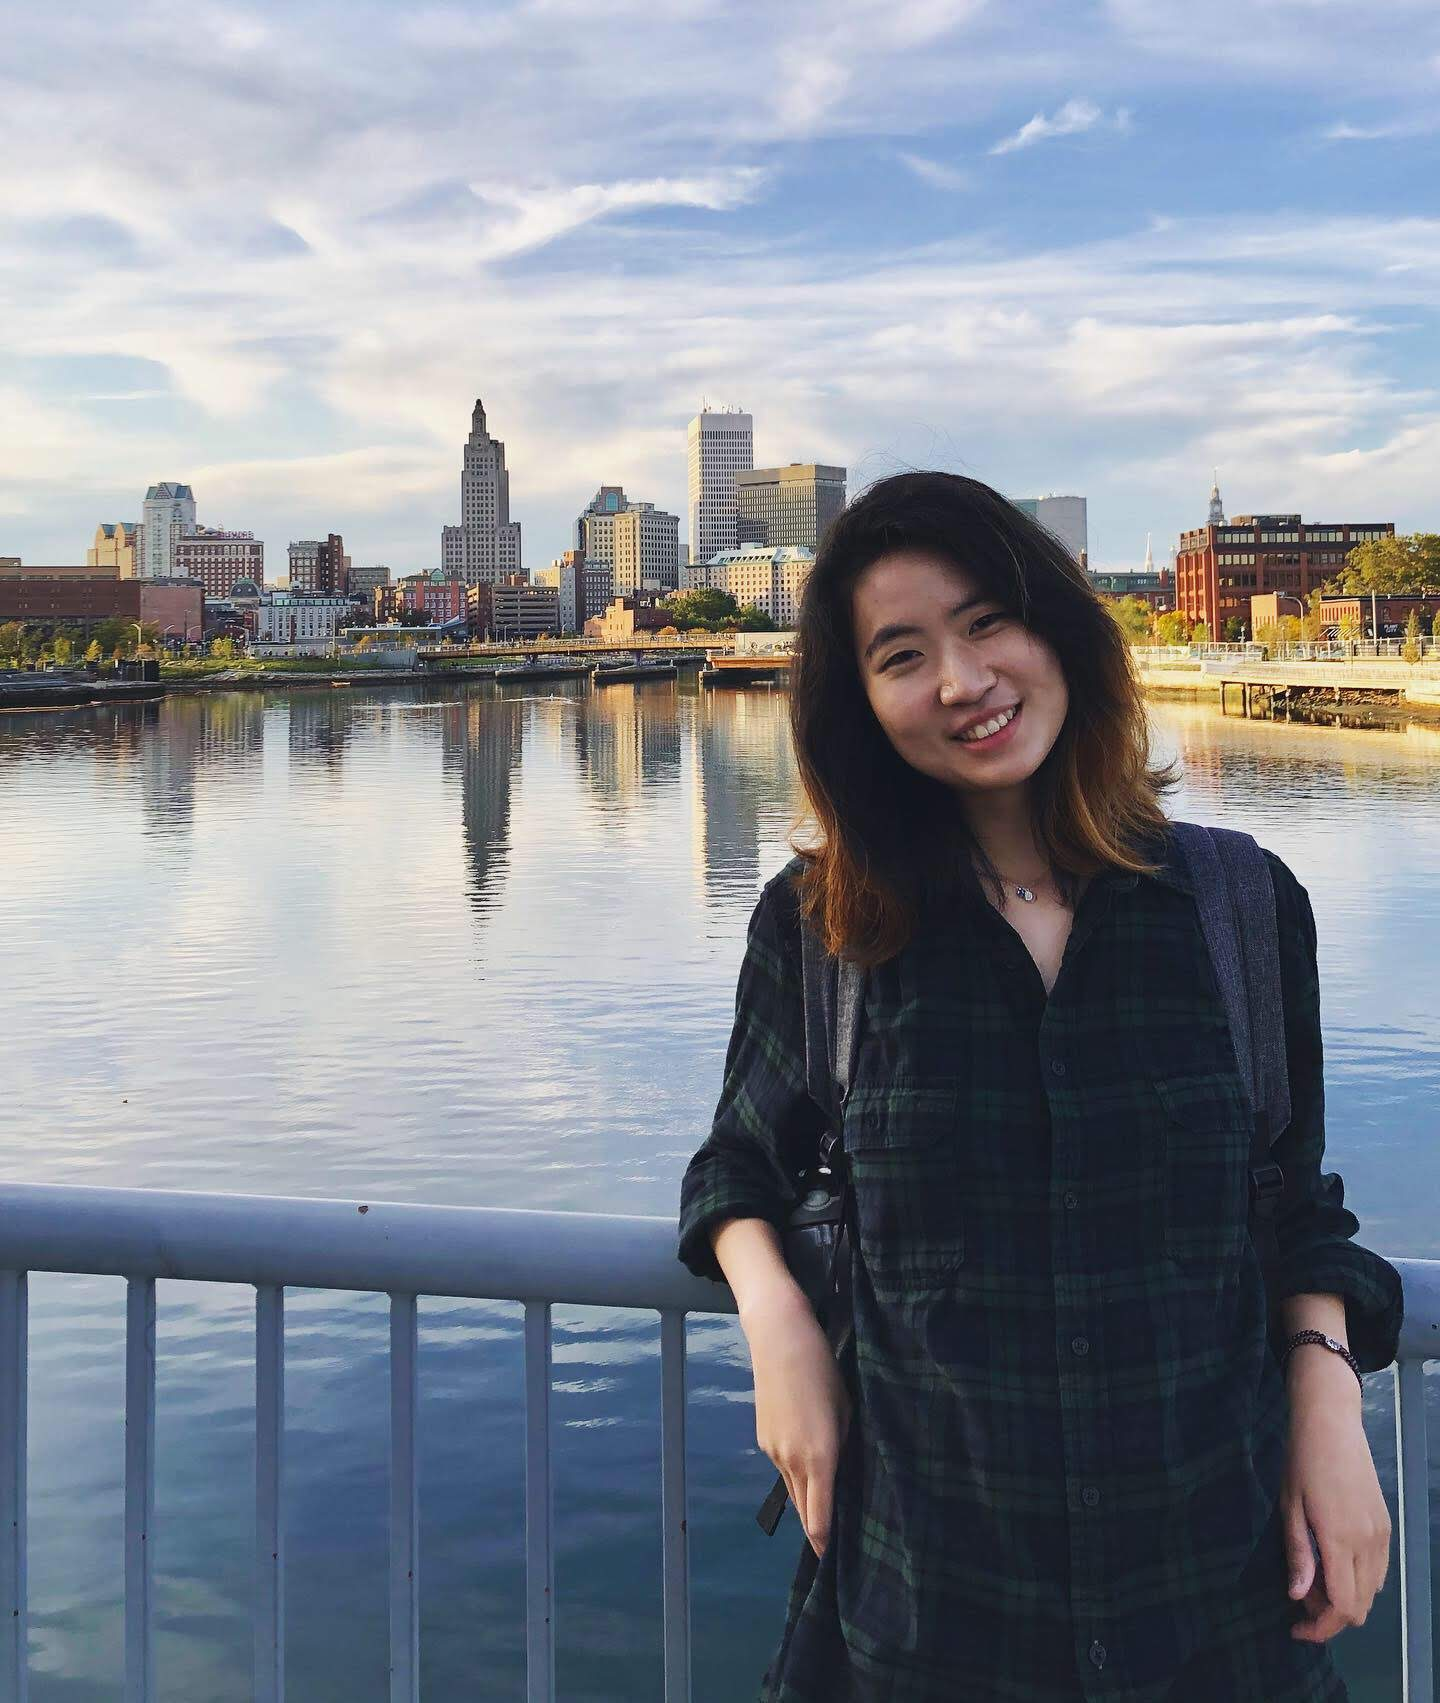
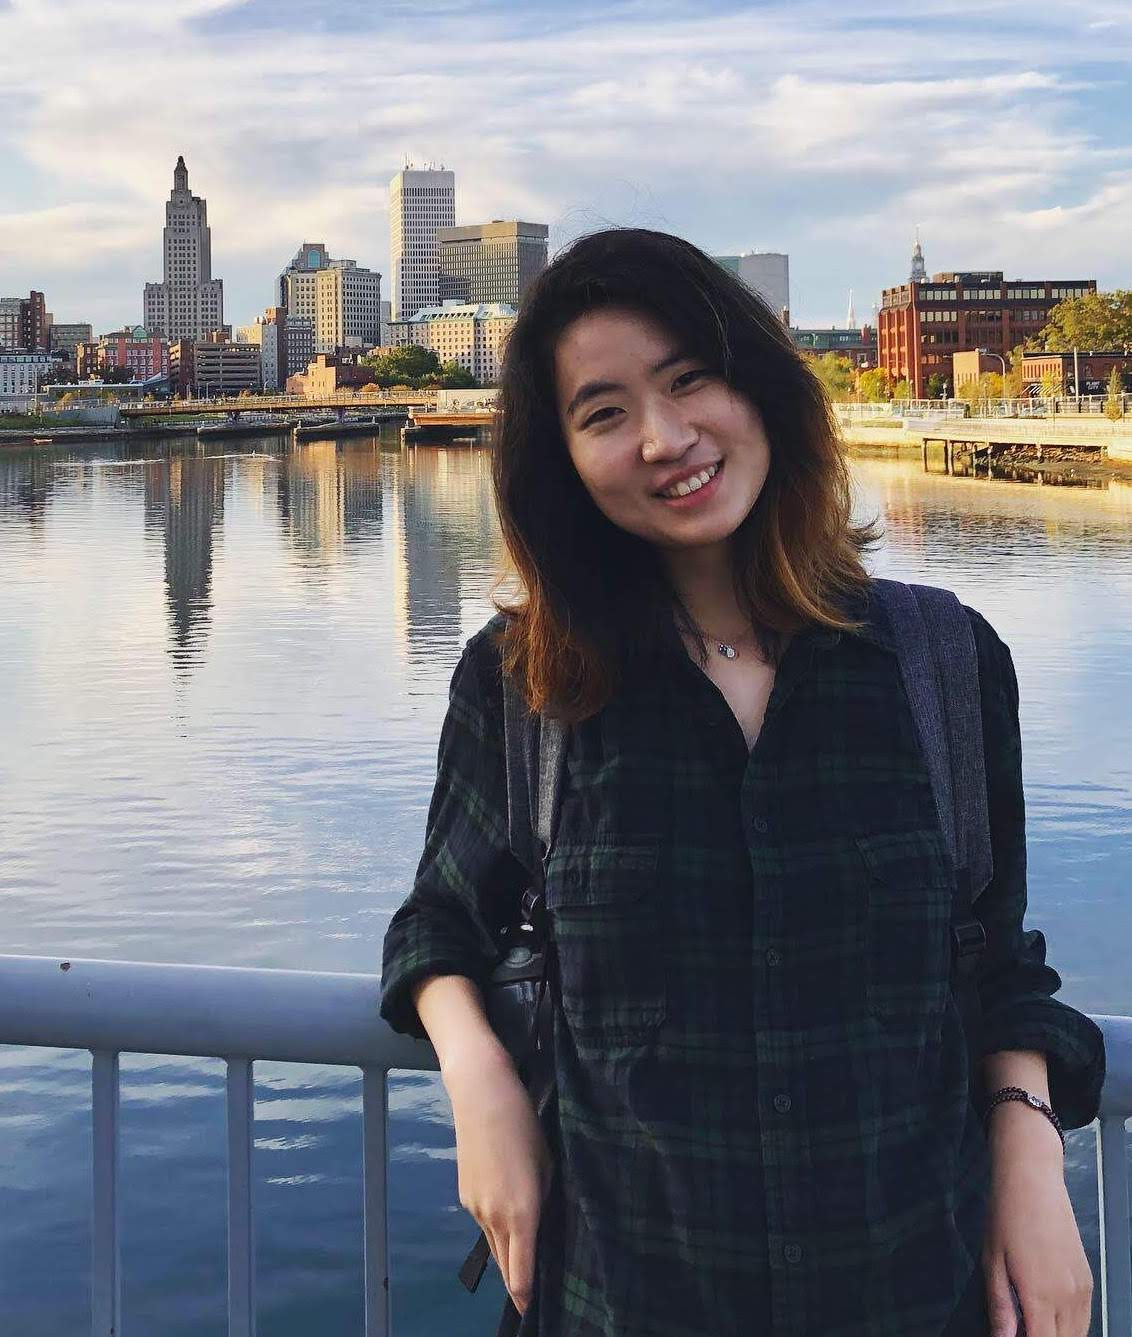
fix styling

diff --git a/src/components/projects.js b/src/components/projects.js
@@ -1,7 +1,7 @@
 import React from "react"
 
 const Projects = () => (
-  <div id="project">
+  <div class="col-12">
     {" "}
     <h2 style={{ fontSize: "30px", fontWeight: "bold" }}># Projects</h2>
     <div>
@@ -20,65 +20,66 @@ const Projects = () => (
           </a>
         </div>
       </div>
-      <p>
-        {" "}
-        ::::::::::::::::::::::::::::::::::::::::::::::::::::::::::::::::::::::::::::::::::::::::::::::::::::::::::::::::::::::::::::::::{" "}
-      </p>
-      <p>
-        01/2020 - Present | <a id="techstack">#VueJS</a>
-        <a id="techstack">#NodeJS</a>
-        <a id="techstack">#Firebase Database</a>
-        <a id="techstack">#GoogleMap API</a>
-        <a id="techstack">#HTML/CSS</a>
-      </p>
-      <p id="toGrey">
-        <a href="https://inrainbows-171a7.web.app/" id="redirect">
-          InRainbows
-        </a>{" "}
-        is a web application for high school and college-age LGBTQ+ members in
-        Boston to easily access queer-friendly mental health resources based on
-        preferences that matter to them.{" "}
-      </p>
-      <p id="toGrey">
-        I first pitched the project idea to <a id="toBold">BU Spark! </a>
-        and then got accepted and funded by{" "}
-        <a
-          href="https://www.bu.edu/spark/students/spark-programs/"
-          id="redirect"
-        >
-          BU Spark! Innovation Fellowship Program
-        </a>
-        .{" "}
-      </p>
-      <p id="toGrey">
-        As the <a id="toBold">founder</a> and the{" "}
-        <a id="toBold">lead developer</a>, I lead a team of 3 software engineer
-        and 1 UX designer to ensure the development of website features using{" "}
-        <a id="toBold">Agile</a> methodology, programmed both front-end and
-        back-end.{" "}
-      </p>
+      <div class="col-12">
+        <p> ::::::::::::::::::::::::::::::::: </p>
+        <p>
+          01/2020 - Present | <b id="techstack">#VueJS</b>
+          <b id="techstack">#NodeJS</b>
+          <b id="techstack">#Firebase Database</b>
+          <b id="techstack">#GoogleMap API</b>
+          <b id="techstack">#HTML/CSS</b>
+        </p>
+        <p class="toGrey">
+          <a href="https://inrainbows-171a7.web.app/" id="redirect">
+            InRainbows
+          </a>{" "}
+          is a web application for high school and college-age LGBTQ+ members in
+          Boston to easily access queer-friendly mental health resources based
+          on preferences that matter to them.{" "}
+        </p>
+        <p class="toGrey">
+          I first pitched the project idea to <b>BU Spark! </b>
+          and then got accepted and funded by{" "}
+          <a
+            href="https://www.bu.edu/spark/students/spark-programs/"
+            id="redirect"
+          >
+            BU Spark! Innovation Fellowship Program
+          </a>
+          .{" "}
+        </p>
+        <p class="toGrey">
+          As the <b>founder</b> and the <b>lead developer</b>, I lead a team of
+          3 software engineer and 1 UX designer to ensure the development of
+          website features using <b>Agile</b> methodology, programmed both
+          front-end and back-end.{" "}
+        </p>
+      </div>
     </div>
     <br></br>
     <div>
       <p id="projectTitle"> > Personalized Concert Generator</p>
-      <p>
-        {" "}
-        :::::::::::::::::::::::::::::::::::::::::::::::::::::::::::::::::::::::::::::::::::::::::::::::::::::::::{" "}
-      </p>
+      <p> ::::::::::::::::::::::::::::::::: </p>
     </div>
     <br></br>
     <div>
-      <p id="projectTitle"> > InhalED</p>
+      <div class="row">
+        <div class="col-10">
+          <p id="projectTitle"> > InhalED</p>
+        </div>
+        <div class="col-2">
+          <a id="redirect" href="https://github.com/Yunhan0816/inhale-ed">
+            Github
+          </a>
+        </div>
+      </div>{" "}
+      <p> ::::::::::::::::::::::::::::::::: </p>
       <p>
-        {" "}
-        :::::::::::::::::::::::::::::::::::::::::::::::::::::::::::::::::::::::::::::::::::::::::::::::::::::::::{" "}
+        10/2019 | <b id="techstack">#VueJS</b>
+        <b id="techstack">#NodeJS</b>
+        <b id="techstack">#Firebase Database</b>
       </p>
-      <p>
-        10/2019 | <a id="techstack">#VueJS</a>
-        <a id="techstack">#NodeJS</a>
-        <a id="techstack">#Firebase Database</a>
-      </p>
-      <p id="toGrey">
+      <p class="toGrey">
         <a id="redirect" href="https://inhaled-bh19.firebaseapp.com/">
           InhalED
         </a>{" "}
@@ -87,19 +88,18 @@ const Projects = () => (
         physical condition, which further helps with patient-doctor
         communication and create the most effective regime.{" "}
       </p>
-      <p id="toGrey">Built by me and other 2 teammates at BostonHacks 2019. </p>
-      <p id="toGrey">
-        First Place Winner of Best Use of Google Cloud and Environmental
-        Sustainability Challenge at BostonHacks 2019.
+      <p class="toGrey">
+        Built by me and other 2 teammates at <b>BostonHacks 2019.</b>{" "}
+      </p>
+      <p class="toGrey">
+        First Place Winner of <b>Best Use of Google Cloud</b> and
+        <b> Environmental Sustainability Challenge</b> at BostonHacks 2019.
       </p>
     </div>
     <br></br>
     <div>
       <p id="projectTitle">Help At Hand</p>
-      <p>
-        {" "}
-        :::::::::::::::::::::::::::::::::::::::::::::::::::::::::::::::::::::::::::::::::::::::::::::::::::::::::{" "}
-      </p>
+      <p> ::::::::::::::::::::::::::::::::: </p>
     </div>
     <br></br>
   </div>

diff --git a/src/components/aboutme.js b/src/components/aboutme.js
@@ -1,37 +1,28 @@
 import React from "react"
-
 const AboutMe = () => (
-  <div id="aboutMe">
-    <h1 style={{ fontSize: "30px", fontWeight: "bold" }}># About Me</h1>
-    <p id="toGrey">
+  <div>
+    <h1 style={{ fontSize: "30px", fontWeight: "bold" }}># About Me</h1>{" "}
+    <p class="toGrey">
       Hello! I'm Hannah, a 4th year Computer Science student studying at Boston
-      University (graduating May 2021).{" "}
-    </p>
-    <p id="toGrey">
+      University (graduating May 2021). <br></br>
+      <br></br>
       My passions include Software Development, organizing hackathons, and indie
-      rock.{" "}
-    </p>
-    <p id="toGrey">
-      I am a <a id="toBold">Developer Summer Analyst</a> at{" "}
-      <a style={{ color: "#81c5fd", fontWeight: "bold" }}>Barclays</a>.
-    </p>
-    <p id="toGrey">
-      I am the current <a id="toBold">Director of Technology</a> at{" "}
+      rock. <br></br>
+      <br></br>I am a <b>Developer Summer Analyst </b>
+      at<b style={{ color: "#81c5fd" }}> Barclays</b>.<br></br>
+      <br></br>I am the current <b>Director of Technology</b> at{" "}
       <a id="redirect" href="https://boston.techtogether.io/index.html">
         TechTogether Boston
       </a>
       , Boston's largest female, femme, and non-binary hackathon that empowers
-      women and non-binary individuals in technology to achieve.{" "}
-    </p>
-    <p id="toGrey">
-      I am also a <a id="toBold">Tech Organizer</a> at{" "}
+      women and non-binary individuals in technology to achieve. <br></br>
+      <br></br>I am also a <b>Tech Organizer</b> at{" "}
       <a id="redirect" href="https://www.bostonhacks.io/">
         BostonHacks
       </a>
       , an annual collegiate hackathon at Boston University.
-    </p>
-    <p id="toGrey">
-      I am a former <a id="toBold">Back-end lead developer</a> at{" "}
+      <br></br>
+      <br></br>I am a former <b>Back-end lead developer</b> at{" "}
       <a id="redirect" href="https://hack4impact.org/">
         Hack4Impact
       </a>

diff --git a/src/components/navbar.js b/src/components/navbar.js
@@ -4,20 +4,22 @@ import DynamicLink from "./dynamic-link"
 import NavLinks from "../data/nav-links.json"
 
 const Nav = () => (
-  <nav className="nav">
-    <DynamicLink to="/" className="nav__logo"></DynamicLink>
-    <ul className="nav__list">
-      {NavLinks.map((link, index) => {
-        return (
-          <li key={`nav-item-${index}`} className="nav__item">
-            <DynamicLink className="nav__link" to={link.path}>
-              {link.name}
-            </DynamicLink>
-          </li>
-        )
-      })}
-    </ul>
-  </nav>
+  <div class="col-12">
+    <nav className="nav">
+      <DynamicLink to="/" className="nav__logo"></DynamicLink>
+      <ul className="nav__list">
+        {NavLinks.map((link, index) => {
+          return (
+            <li key={`nav-item-${index}`} className="nav__item">
+              <DynamicLink className="nav__link" to={link.path}>
+                {link.name}
+              </DynamicLink>
+            </li>
+          )
+        })}
+      </ul>
+    </nav>
+  </div>
 )
 
 export default Nav

diff --git a/gatsby-config.js b/gatsby-config.js
@@ -1,8 +1,8 @@
 module.exports = {
   siteMetadata: {
-    title: `Gatsby Default Starter`,
-    description: `Kick off your next, great Gatsby project with this default starter. This barebones starter ships with the main Gatsby configuration files you might need.`,
-    author: `@gatsbyjs`,
+    title: `Portfolio`,
+    description: `Hannah Huang is a 4th year Computer Science student at Boston University with a passion for Software Development.`,
+    author: `Hannah Huang`,
   },
   plugins: [
     `gatsby-plugin-react-helmet`,
@@ -24,7 +24,7 @@ module.exports = {
         background_color: `#663399`,
         theme_color: `#663399`,
         display: `minimal-ui`,
-        icon: `src/images/gatsby-icon.png`, // This path is relative to the root of the site.
+        icon: `src/images/Hannah.png`, // This path is relative to the root of the site.
       },
     },
     // this (optional) plugin enables Progressive Web App + Offline functionality

diff --git a/src/styles/layout.css b/src/styles/layout.css
@@ -1,4 +1,5 @@
 @import url("https://fonts.googleapis.com/css2?family=Overpass&family=Overpass+Mono:wght@400;700&display=swap");
+
 * {
   font-family: "Overpass Mono", sans-serif;
   background-color: #222028;
@@ -11,6 +12,7 @@
 }
 #projectTitle {
   font-size: 20px;
+  font-weight: bold;
   color: white;
 }
 h3 {
@@ -18,7 +20,7 @@ h3 {
   color: white;
   font-size: 20px;
 }
-#toGrey {
+.toGrey {
   color: #a2a3a2;
 }
 
@@ -92,13 +94,15 @@ a {
   text-decoration: none;
 }
 
-#toBold {
+.toBold {
   font-weight: bold;
   color: #d4feda;
 }
 #techstack {
+  font-weight: lighter;
   /* color: #919993; */
   margin-right: 30px;
+  color: white;
 }
 .navHref {
   color: #81c5fd;

diff --git a/src/pages/index.js b/src/pages/index.js
@@ -16,15 +16,23 @@ class IndexPage extends React.Component {
 
         <br></br>
         <div class="row">
-          <div class="col-9">
+          <div class="col-9" id="aboutMe">
             <AboutMe />{" "}
           </div>
           <div class="col-3">
-            <AboutMePic />
+            <div>
+              <AboutMePic />
+            </div>
           </div>
         </div>
         <br></br>
-        <Projects />
+        <div class="row">
+          <div id="project">
+            {" "}
+            <Projects />
+          </div>
+        </div>
+
         <Link to="/page-2/">Go to page 2</Link>
       </Layout>
     )

diff --git a/src/components/header.js b/src/components/header.js
@@ -1,10 +1,13 @@
 import React from "react"
 const Header = () => (
   <div id="header">
-    <p>
-      <a id="myname"> Hannah Huang</a>{" "}
-      ||||||||||||||||||||||||||||||||||||||||||||||||||||||||||||||||||||||||||||||||||||||||||||||||||||||||||||{" "}
-    </p>
+    {/* <p> */}
+    <a id="myname" href="/" class="col-12">
+      {" "}
+      Hannah Huang
+    </a>{" "}
+    {/* <div class="col-12">||||||||||||||||||||||||||||||||||||||||||||| </div> */}
+    {/* </p> */}
   </div>
 )
 

diff --git a/src/components/layout.js b/src/components/layout.js
@@ -10,7 +10,7 @@ import PropTypes from "prop-types"
 import { useStaticQuery, graphql } from "gatsby"
 import Nav from "../components/navbar"
 import Header from "./header"
-import "./layout.css"
+import "../styles/layout.css"
 
 const Layout = ({ children }) => {
   // const data = useStaticQuery(graphql`

diff --git a/src/components/aboutmepic.js b/src/components/aboutmepic.js
@@ -7,7 +7,7 @@ const Image = () => {
     query {
       placeholderImage: file(relativePath: { eq: "mypic.jpg" }) {
         childImageSharp {
-          fluid(maxWidth: 500) {
+          fluid(maxWidth: 600, quality: 100) {
             ...GatsbyImageSharpFluid
           }
         }
